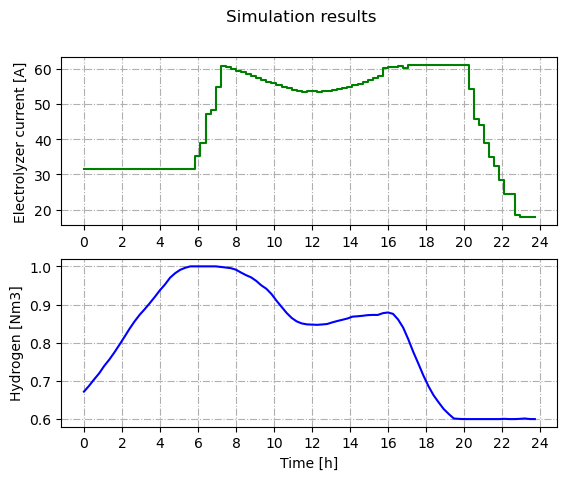
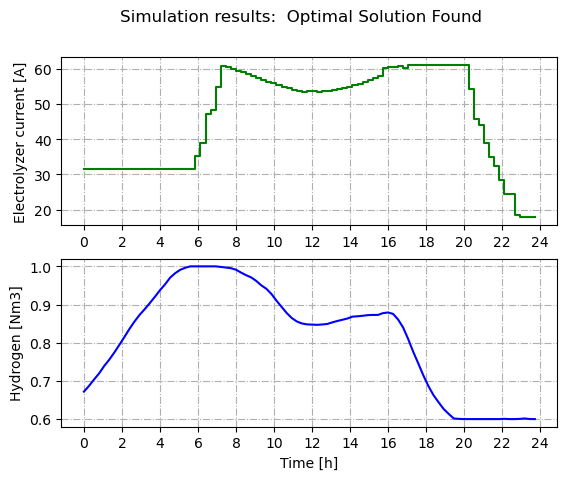
Add Ipopt exit in plot

Changed region(s): [[0.2099, 0.0, 0.8395, 0.0625]]

diff --git a/ocp-1-single-shooting.py b/ocp-1-single-shooting.py
@@ -84,13 +84,20 @@ for k in range(N):
 prob = {'f': J, 'x': ca.vertcat(*w), 'g': ca.vertcat(*g)}
 
 # NLP solver options
-opts = {"ipopt.output_file" : "results/ocp-1-trapezoid-collocation.txt"}
+opts = {"ipopt.output_file" : "results/ocp-1-single-shooting.txt"}
 
 # Use IPOPT as the NLP solver
 solver = ca.nlpsol('solver', 'ipopt', prob, opts)
 
 # Call the solver
 sol = solver(x0=w0, lbx=lbw, ubx=ubw, lbg=lbg, ubg=ubg)
+
+# Retrieve the optimization status
+optimzation_status = ''
+with open('results/ocp-1-single-shooting.txt') as file:
+    for line in file:
+        if line.startswith('EXIT'):
+            optimzation_status = line.strip()[5:-1]
 
 # Print the optimal cost
 print('Optimal cost: ' + str(sol['f']))
@@ -114,8 +121,15 @@ for s in range(N):
     th.append(s*dt/60)
 
 # Plot results
+# Retrieve the optimization status
+optimzation_status = ''
+with open('results/ocp-1-single-shooting.txt') as file:
+    for line in file:
+        if line.startswith('EXIT'):
+            optimzation_status = line.strip()[5:-1]
+
 fig, axs = plt.subplots(2,1)
-fig.suptitle('Simulation results')
+fig.suptitle('Simulation results: ' + optimzation_status)
 
 axs[0].step(th, w_opt, 'g-', where ='post')
 axs[0].set_ylabel('Electrolyzer current [A]')
